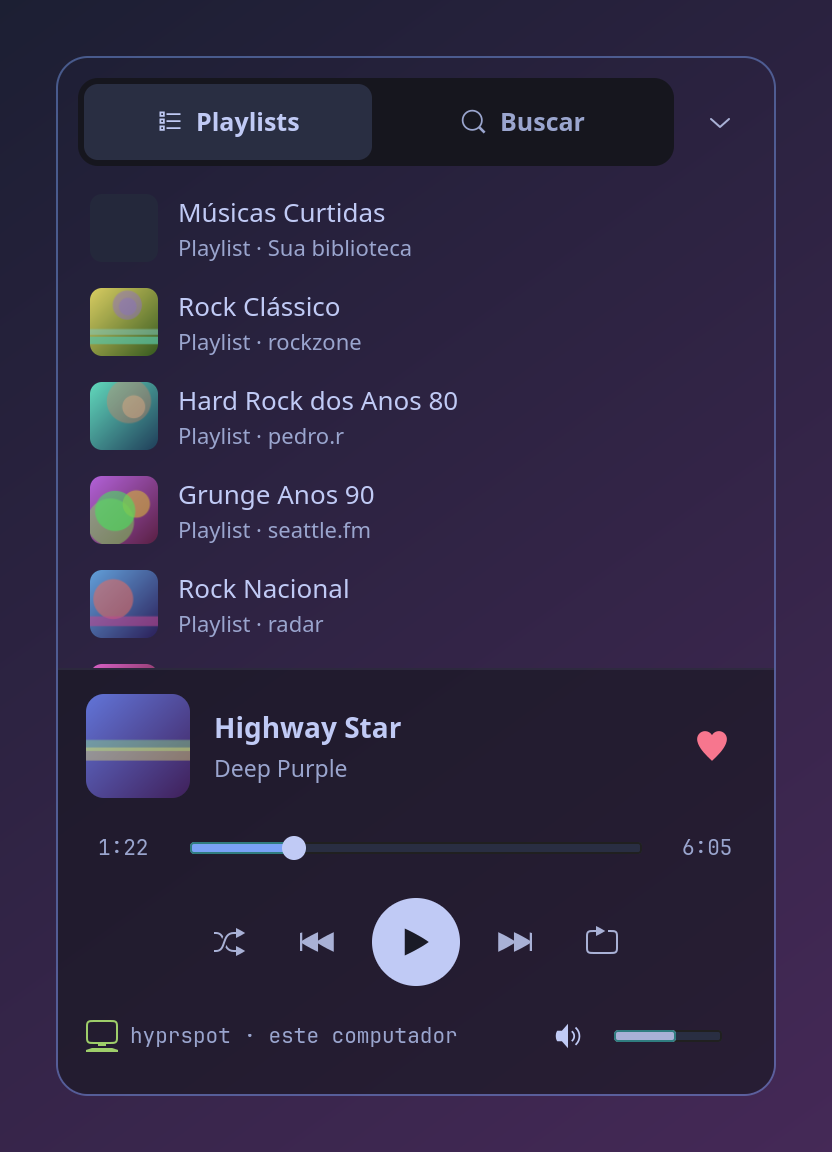
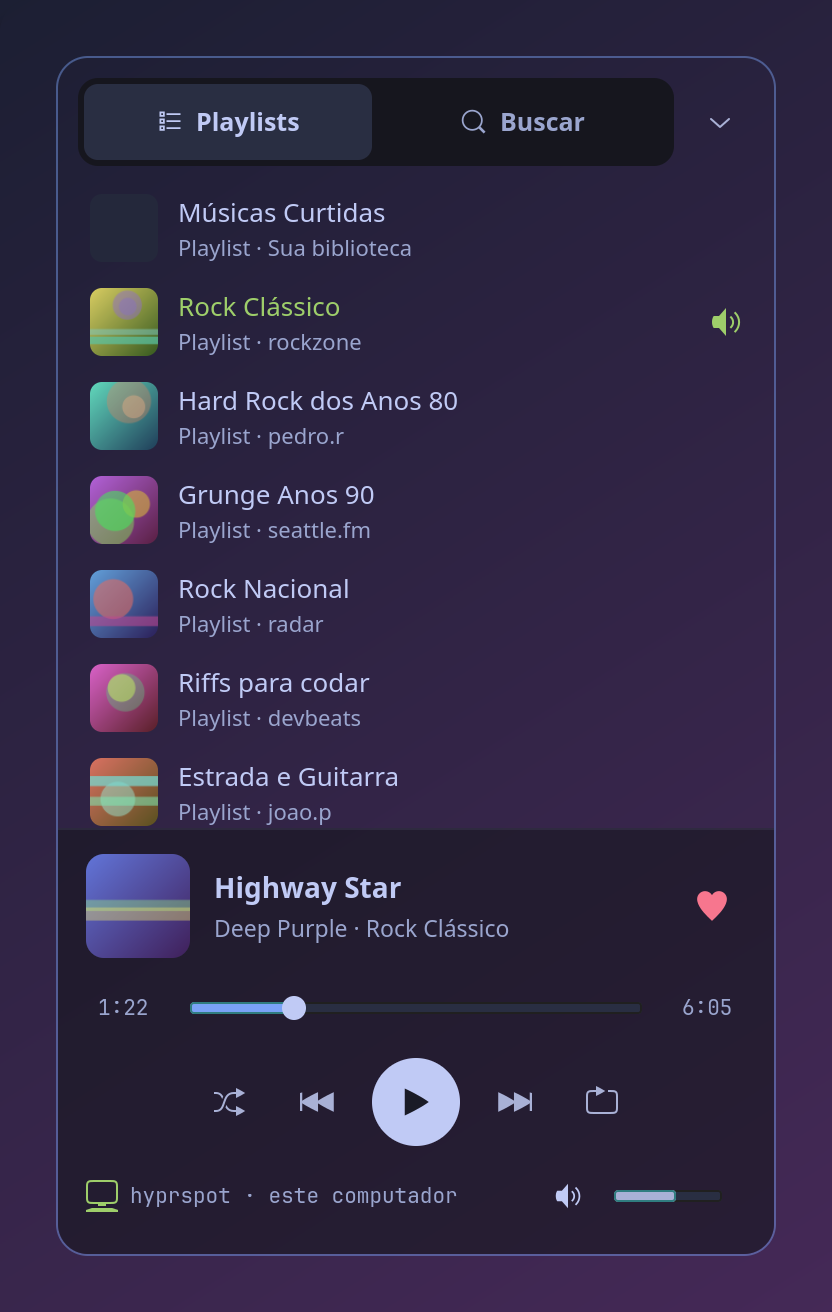
docs: README e capturas da tela da playlist

diff --git a/scripts/make_screenshots.py b/scripts/make_screenshots.py
@@ -57,6 +57,20 @@ PLAYLISTS = [
     Playlist("spotify:playlist:p5", "Riffs para codar", "devbeats", "art:6"),
     Playlist("spotify:playlist:p6", "Estrada e Guitarra", "joao.p", "art:7"),
 ]
+# fila "A seguir" da tela da playlist (Rock Clássico tocando)
+QUEUE = [
+    Track("spotify:track:q1", "Smoke on the Water", "Deep Purple", "", 340_000, "art:13"),
+    Track("spotify:track:q2", "Back in Black", "AC/DC", "", 255_000, "art:14"),
+    Track("spotify:track:q3", "Sweet Child O' Mine", "Guns N' Roses", "", 356_000, "art:15"),
+    Track("spotify:track:q4", "Hotel California", "Eagles", "", 391_000, "art:16"),
+    Track("spotify:track:q5", "Paranoid", "Black Sabbath", "", 168_000, "art:17"),
+    Track("spotify:track:q6", "Born to Be Wild", "Steppenwolf", "", 211_000, "art:18"),
+    Track("spotify:track:q7", "Stairway to Heaven", "Led Zeppelin", "", 482_000, "art:19"),
+]
+SEARCH_PLAYLISTS = [
+    Playlist("spotify:playlist:s1", "Highway Rock", "rockzone", "art:20"),
+    Playlist("spotify:playlist:s2", "Road Trip Classics", "joao.p", "art:21"),
+]
 QUERY = "highway"
 RESULTS = [
     NOW,
@@ -150,7 +164,8 @@ def widget_shots(out: Path, done) -> None:
     art = FakeArt()
     state = AppState()
     state.set_playback(Playback(connected=True, logged_in=True, is_active=True, status="paused", track=NOW,
-                                position_ms=82_000, volume=56))
+                                context_uri=PLAYLISTS[1].uri, position_ms=82_000, volume=56))
+    state.set_queue(PLAYLISTS[1].uri, QUEUE)
     state.set_liked(True)
     state.set_playlists(PLAYLISTS)
     noop = lambda *_a, **_k: None  # noqa: E731
@@ -165,12 +180,19 @@ def widget_shots(out: Path, done) -> None:
         render(expanded, ExpandedView.WIDTH, ExpandedView.HEIGHT, 16, out / "expanded-playlists.png")
         state.set_ui(tab="search")
         expanded.entry.set_text(QUERY)
-        state.set_search(QUERY, RESULTS)
+        state.set_search(QUERY, RESULTS, SEARCH_PLAYLISTS)
         GLib.timeout_add(700, step2)
         return False
 
     def step2():
         render(expanded, ExpandedView.WIDTH, ExpandedView.HEIGHT, 16, out / "expanded-search.png")
+        state.set_ui(tab="playlists")
+        expanded.open_playlist(PLAYLISTS[1], "playlists")
+        GLib.timeout_add(700, step3)
+        return False
+
+    def step3():
+        render(expanded, ExpandedView.WIDTH, ExpandedView.HEIGHT, 16, out / "expanded-playlist-page.png")
         for w in wins:
             w.destroy()
         done()

diff --git a/README.md b/README.md
@@ -6,13 +6,15 @@ Mini player de Spotify para o Hyprland. Fica sempre por cima, num canto da tela,
   <img src="docs/screenshots/compact.png" width="376" alt="hyprspot compacto: capa, título, artista e os botões anterior, play e próxima">
 </p>
 <p align="center">
-  <img src="docs/screenshots/expanded-playlists.png" width="380" alt="hyprspot expandido na aba Playlists">
+  <img src="docs/screenshots/expanded-playlists.png" width="260" alt="hyprspot expandido na aba Playlists">
   &nbsp;
-  <img src="docs/screenshots/expanded-search.png" width="380" alt="hyprspot expandido com a busca de músicas">
+  <img src="docs/screenshots/expanded-playlist-page.png" width="260" alt="Tela de uma playlist: voltar, Tocar, Aleatório e a lista A seguir">
+  &nbsp;
+  <img src="docs/screenshots/expanded-search.png" width="260" alt="hyprspot expandido com a busca de playlists e músicas">
 </p>
 
 - **Compacto (320×64):** capa, faixa, artista, anterior / play / próxima e barra de progresso. Para ajustar o volume, role o mouse sobre ele.
-- **Expandido (360×520):** playlists, busca com resultados conforme você digita, curtir, aleatório, repetir, posição da música e volume.
+- **Expandido (360×600):** playlists, a tela de cada playlist com a fila "A seguir", busca de músicas e playlists conforme você digita, curtir, aleatório, repetir, posição da música e volume.
 - **Rápido:** os comandos vão direto para o player local e respondem em cerca de 15 ms. Os botões não esperam a resposta do Spotify para mudar na tela.
 - **Discreto:** não rouba o foco das outras janelas, recolhe sozinho quando você clica fora e pode ser arrastado para qualquer canto.
 
@@ -116,12 +118,13 @@ Por fim, abra **Settings** e cole o **Client ID** no campo. É o Client ID, não
 |---|---|
 | Expandir / recolher | `Super+Alt+M`, ou clique na capa ou no título |
 | Abrir direto na busca | `Super+Alt+B` |
+| Abrir uma playlist | clique nela, na lista ou na busca: ela começa a tocar e abre a tela dela, com "Tocar", "Aleatório" e a fila "A seguir". Clique numa música da fila para tocar a playlist a partir dela. Se a playlist já estiver tocando, só abre a tela. |
 | Esconder / mostrar | `Super+Alt+H` |
 | Volume | rolar o mouse sobre o widget compacto |
 | Mover o widget | arrastar o compacto com o botão esquerdo (no touchpad, um dedo) ou qualquer modo com o botão do meio. Ele não sai da área visível, e a posição fica salva. |
 | Fechar o hyprspot | `q` com o mouse parado sobre o widget, ou no expandido fora da busca. A música continua tocando. |
 | Teclado no compacto | com o mouse parado sobre o widget: `Espaço` toca/pausa, `←` `→` trocam de faixa, `q` fecha |
-| Teclado no expandido | `Esc` recolhe, `Tab` troca de aba, `/` vai para a busca, `Espaço` toca/pausa, `←` `→` trocam de faixa (fora da busca), `↑` `↓` e `Enter` nos resultados |
+| Teclado no expandido | `Esc` volta da tela da playlist e, na lista, recolhe; `Tab` troca de aba, `/` vai para a busca, `Espaço` toca/pausa, `←` `→` trocam de faixa (fora da busca), `↑` `↓` e `Enter` nos resultados |
 | Teclas de mídia e de volume | continuam com o sistema; o hyprspot não mexe nelas. Use o widget (ou os atalhos acima) para controlar o Soloist |
 
 Comandos de terminal: `hyprspot toggle | expand [--search] | collapse | hide | show | quit | play-pause | next | prev | setup | login | soloist-status | soloist-update`.
